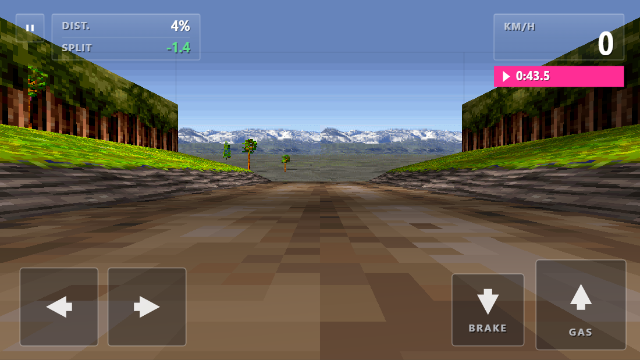
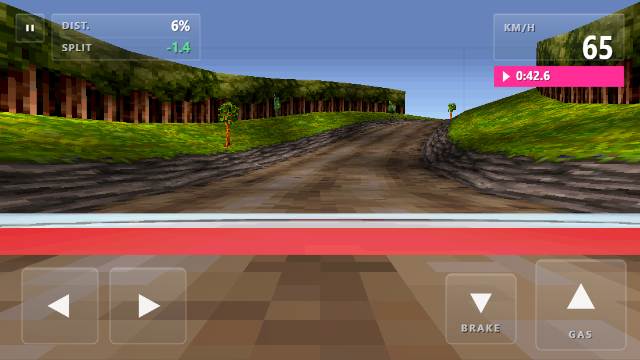
Fix the camera direction, and polish the controls
Cameras
- the camera frame was built on the wheel-offset convention, where +Z means
  'rear', so every viewpoint ended up in front of the car looking back
- the car's own frame is used now (+X right, +Z forward)
- the hood camera rides just above the bonnet line and the bumper camera
  just ahead of the nose; the near plane came down from 1 unit to 0.25 so
  the bodywork is no longer clipped away
- the cinematic camera circles higher and closer, above the roof

Controls
- the pads are proper controls now: a glass plate with a hairline edge and
  an inner highlight, a solid glyph that inverts when held
- the menu rows share one glass treatment and mark the selection with an
  amber rule and an inner highlight

Text
- dropped the redundant lines: the 'Nokia J2ME classic' strapline on the
  title screen, the control reminder on the pre-race screen and the
  instructions under the pause menu's settings

diff --git a/game/js/race.js b/game/js/race.js
@@ -33,21 +33,25 @@ const textMid = R3D.textMid, tagMid = R3D.tagMid;
 //   look - what it points at
 //   lag  - how fast the camera frame follows the car's yaw (the original
 //          chase cam trails noticeably; the rigid ones barely lag at all)
+// The car's own model is 5.45 long (nose at z = 2.73), 2.65 wide and 2.02
+// tall, so the on-car cameras have to sit clear of the bodywork: the hood
+// camera rides just above the bonnet line, the bumper camera just ahead of
+// the nose.
 const CAMS = {
   chase: {
-    label: 'Chase', off: [0, 3.2, -9.0], look: [0, 1.4, 8], lag: 25 / 6, pitch: 7.5,
+    label: 'Chase', off: [0, 3.2, -9.0], look: [0, 1.4, 8], lag: 25 / 6,
   },
   hood: {
-    label: 'Hood', off: [0, 1.18, 1.55], look: [0, 0.95, 18], lag: 25 / 2.6, pitch: 0,
+    label: 'Hood', off: [0, 1.42, 1.55], look: [0, 0.95, 20], lag: 25 / 2.6,
   },
   bumper: {
-    label: 'Bumper', off: [0, 0.52, 2.30], look: [0, 0.62, 20], lag: 25 / 2.6, pitch: 0,
+    label: 'Bumper', off: [0, 0.52, 3.15], look: [0, 0.30, 24], lag: 25 / 2.6,
   },
   top: {
-    label: 'Top down', off: [0, 12.5, -0.6], look: [0, 0, 0], lag: 25 / 2, pitch: 0,
+    label: 'Top down', off: [0, 11.5, 0.2], look: [0, 0, 0], lag: 25 / 2,
   },
   cine: {
-    label: 'Cinematic', off: [0, 2.3, -7.5], look: [0, 1.0, 0], lag: 25 / 3, pitch: 0, orbit: 0.30,
+    label: 'Cinematic', off: [0, 2.3, -7.5], look: [0, 1.0, 0], lag: 25 / 3, orbit: 0.30,
   },
 };
 const CAM_ORDER = ['chase', 'hood', 'bumper', 'top', 'cine'];
@@ -264,6 +268,8 @@ const raceScene = {
     if (!CAMS[mode]) return;
     this.camMode = mode;
     this.cineT = 0;
+    // snap the camera height, otherwise it would sink or rise into place
+    this.camY = this.pos.y + CAMS[mode].off[1];
     S().settings.camera = mode;
     R3D.persist();
   },
@@ -616,25 +622,28 @@ const raceScene = {
     const rad = this.camYaw * Math.PI / 180;
     const cy = Math.cos(rad), sy = Math.sin(rad);
 
-    // camera frame -> world (same convention as the wheel offsets)
+    // camera frame -> world. The car's own frame: +X is the car's right,
+    // +Z is the direction it is travelling (the wheel offsets use the
+    // opposite convention, with +Z meaning "rear", so they must not be
+    // reused here).
     const toWorld = (lx, ly, lz) => ({
-      x: this.pos.x + lx * cy - lz * sy,
+      x: this.pos.x + lx * cy + lz * sy,
       y: this.pos.y + ly,
-      z: this.pos.z + lx * sy + lz * cy,
+      z: this.pos.z + lx * sy - lz * cy,
     });
 
     let off = mode.off, look = mode.look;
     if (mode.orbit) {
-      // the cinematic camera circles the car in world space
+      // the cinematic camera circles the car in world space, high enough to
+      // stay above the roof and clear of the tree walls
       this.cineT = (this.cineT || 0) + dt * mode.orbit;
       const a = this.cineT;
       const c = this.pos;
-      off = [Math.sin(a) * 7.5, 2.3 + Math.sin(a * 0.7) * 0.6, Math.cos(a) * 7.5];
-      look = [0, 1.0, 0];
-      const wp = { x: c.x + off[0], y: c.y + off[1], z: c.z + off[2] };
-      this.camPos.set(wp.x, wp.y, wp.z);
+      const rad = 6.4;
+      off = [Math.sin(a) * rad, 3.7 + Math.sin(a * 0.7) * 0.5, Math.cos(a) * rad];
+      this.camPos.set(c.x + off[0], c.y + off[1], c.z + off[2]);
       camera.position.copy(this.camPos);
-      camera.lookAt(this.pos.x, this.pos.y + 1.0, this.pos.z);
+      camera.lookAt(c.x, c.y + 1.3, c.z);
       this.setHorizonFromLook();
       this.placeCar();
       return;
@@ -863,30 +872,55 @@ const raceScene = {
   },
 
   // -------------------------------------------------- on-screen touch controls
-  // Squared pads in the same technical language as the HUD: translucent grey
-  // plates with a thin white rule, an arrow glyph, and an amber fill while
-  // held. They are "hold" areas, so steering and throttle work together.
+  // The pads are real controls, not flat boxes: a glass plate with a hairline
+  // edge and an inner highlight, a solid glyph, and an inverted fill while
+  // they are held. They are "hold" areas, so steering and throttle work
+  // together and a thumb can slide from one to the next.
   drawControls() {
     if (S().settings.buttons === 0) return;
-    const bs = 78;                       // steering pad size
-    const by = H - bs - 14;
-    this.pad('L', 20, by, bs, bs, 3, '◀', R3D.isHeld('L'));
-    this.pad('R', 20 + bs + 10, by, bs, bs, 1, '▶', R3D.isHeld('R'));
+    const bs = 76;
+    const by = H - bs - 16;
+    this.pad('L', 22, by, bs, bs, 3, R3D.isHeld('L'));
+    this.pad('R', 22 + bs + 12, by, bs, bs, 1, R3D.isHeld('R'));
     // throttle (big) and brake (smaller) on the right
-    const gx = W - 104, gy = H - 100, gs = 90;
-    this.pad('U', gx, gy, gs, gs, 0, '▲', R3D.isHeld('U'), 'GAS');
-    this.pad('D', gx - 84, H - 86, 72, 72, 2, '▼', R3D.isHeld('D'), 'BRAKE');
+    this.pad('U', W - 104, H - 100, 90, 90, 0, R3D.isHeld('U'), 'GAS');
+    this.pad('D', W - 194, H - 86, 70, 70, 2, R3D.isHeld('D'), 'BRAKE');
   },
-  pad(id, x, y, w, h, dir, glyph, pressed, caption) {
-    panel(x, y, w, h, {
-      r: 3,
-      fill: pressed ? 'rgba(255,196,0,0.30)' : 'rgba(24,27,32,0.42)',
-      borderColor: pressed ? C.accent : 'rgba(255,255,255,0.30)',
-      lw: pressed ? 2 : 1,
-    });
-    R3D.iconArrow(x + w / 2, y + h / 2 - (caption ? 8 : 0), 26, dir,
-      pressed ? C.accent : 'rgba(255,255,255,0.88)');
-    if (caption) tag(caption, x + w / 2, y + h - 22, 5, pressed ? C.accent : C.dim, 10, 1.4);
+  pad(id, x, y, w, h, dir, pressed, caption) {
+    const r = 6;
+    // the plate
+    roundRect(x, y, w, h, r);
+    const g = ui.createLinearGradient(0, y, 0, y + h);
+    if (pressed) {
+      g.addColorStop(0, 'rgba(255,196,0,0.34)');
+      g.addColorStop(1, 'rgba(255,196,0,0.16)');
+    } else {
+      g.addColorStop(0, 'rgba(228,236,246,0.16)');
+      g.addColorStop(1, 'rgba(90,104,122,0.10)');
+    }
+    ui.fillStyle = g;
+    ui.fill();
+    ui.strokeStyle = pressed ? C.accent : 'rgba(255,255,255,0.26)';
+    ui.lineWidth = 1;
+    ui.stroke();
+    // inner highlight along the top edge
+    ui.fillStyle = pressed ? 'rgba(255,220,120,0.45)' : 'rgba(255,255,255,0.13)';
+    ui.fillRect(x + 3, y + 1, w - 6, 1);
+    // the glyph: a solid triangle, inverted when held
+    const cx = x + w / 2, cy = y + h / 2 - (caption ? 7 : 0);
+    const s = w * 0.30;
+    ui.save();
+    ui.translate(cx, cy);
+    ui.rotate(dir * Math.PI / 2);
+    ui.beginPath();
+    ui.moveTo(0, -s * 0.55);
+    ui.lineTo(s * 0.52, s * 0.40);
+    ui.lineTo(-s * 0.52, s * 0.40);
+    ui.closePath();
+    ui.fillStyle = pressed ? '#101318' : 'rgba(255,255,255,0.92)';
+    ui.fill();
+    ui.restore();
+    if (caption) tag(caption, cx, y + h - 20, 5, pressed ? '#101318' : C.dim, 10, 1.6);
     holdArea(id, x, y, w, h);
   },
 
@@ -913,7 +947,6 @@ const raceScene = {
       AudioSys.sfx('plink1');
       this.phase = 'countdown'; this.cd = 0; this.cdN = 0;
     });
-    tag('Steer with ◀ ▶   ·   Accelerate with ▲', 26, H - 26, 0, C.faint, 12, 1.2);
     // small back button
     const bxx = 38, byy = 70, rr = 15;
     panel(bxx - rr, byy - rr, rr * 2, rr * 2, { r: 2, fill: 'rgba(12,14,18,0.80)' });
@@ -934,16 +967,16 @@ const raceScene = {
     plate(x, y, cw, ch, { r: 2, fill: 'rgba(10,12,16,0.94)', topLine: 'rgba(255,255,255,0.10)' });
     tag(this.pausePage === 1 ? D.lang[107] : 'Paused', W / 2, y + 26, 5, C.accent, 15, 2.2);
     if (this.pausePage === 1) {
-      tag('Tap a row to change it  ·  C switches camera', W / 2, y + 46, 5, C.faint, 10, 0.9);
+      tag('Tap a row to change it', W / 2, y + 46, 5, C.faint, 10, 0.9);
     }
     let iy = y + (this.pausePage === 1 ? 62 : 52);
     items.forEach((it, i) => {
       const active = i === this.pauseSel;
       plate(x + 16, iy, cw - 32, 34, {
         r: 2,
-        fill: active ? 'rgba(255,196,0,0.12)' : 'rgba(255,255,255,0.05)',
         borderColor: active ? C.accent : 'rgba(255,255,255,0.12)',
         lw: active ? 2 : 1,
+        topLine: active ? 'rgba(255,214,110,0.28)' : 'rgba(255,255,255,0.09)',
       });
       if (active) { ui.fillStyle = C.accent; ui.fillRect(x + 16, iy, 3, 34); }
       tag(it.label, x + 32, iy + 11, 0, active ? C.accent : C.text, 13, 0.9);

diff --git a/game/js/scenes.js b/game/js/scenes.js
@@ -77,9 +77,10 @@ function bigButton(id, x, y, w, h, label, onTap, opts) {
   const active = !!opts.active;
   panel(x, y, w, h, {
     r: 2,
-    fill: active ? 'rgba(255,196,0,0.10)' : (opts.fill || PLATE),
+    fill: opts.fill || PLATE,
     borderColor: active ? C.accent : (opts.border || 'rgba(255,255,255,0.14)'),
     lw: active ? 2 : 1,
+    topLine: active ? 'rgba(255,214,110,0.28)' : 'rgba(255,255,255,0.10)',
   });
   if (active) {
     ui.fillStyle = C.accent;
@@ -180,9 +181,8 @@ const titleScene = {
     ui.fillStyle = g; ui.fillRect(150, 0, 140, H);
     const lh = logo(20, 24, 224) || 37;
     // the caption sits on its own plate so it stays readable over the art
-    panel(14, 24 + lh + 2, 236, 46, { r: 2, fill: 'rgba(8,9,11,0.62)', border: false });
-    tag('Landscape edition', 24, 24 + lh + 10, 0, C.accent, 12, 2);
-    tag('Nokia J2ME classic, rebuilt for phones', 24, 24 + lh + 28, 0, C.dim, 11, 1.2);
+    panel(14, 24 + lh + 2, 166, 26, { r: 2, fill: 'rgba(8,9,11,0.66)', border: false });
+    tag('Landscape edition', 24, 24 + lh + 9, 0, C.accent, 12, 2);
 
     menuColumn(this.items(), (i) => { this.sel = i; this.pick(i); }, {
       x: 336, w: 282, y: 96, sel: this.sel,

diff --git a/game/js/main.js b/game/js/main.js
@@ -20,7 +20,9 @@ const renderer = new THREE.WebGLRenderer({
   canvas: glCanvas, antialias: false, alpha: true, preserveDrawingBuffer: true,
 });
 renderer.setClearColor(0x000000, 0);
-const camera = new THREE.PerspectiveCamera(52, W / H, 1, 128);
+// the near plane has to be close: the hood and bumper cameras sit within a
+// unit of the car, and anything nearer than the old 1-unit plane was clipped
+const camera = new THREE.PerspectiveCamera(52, W / H, 0.25, 128);
 R3D._renderer = renderer;
 R3D._camera = camera;
 R3D._gl = glCanvas;
